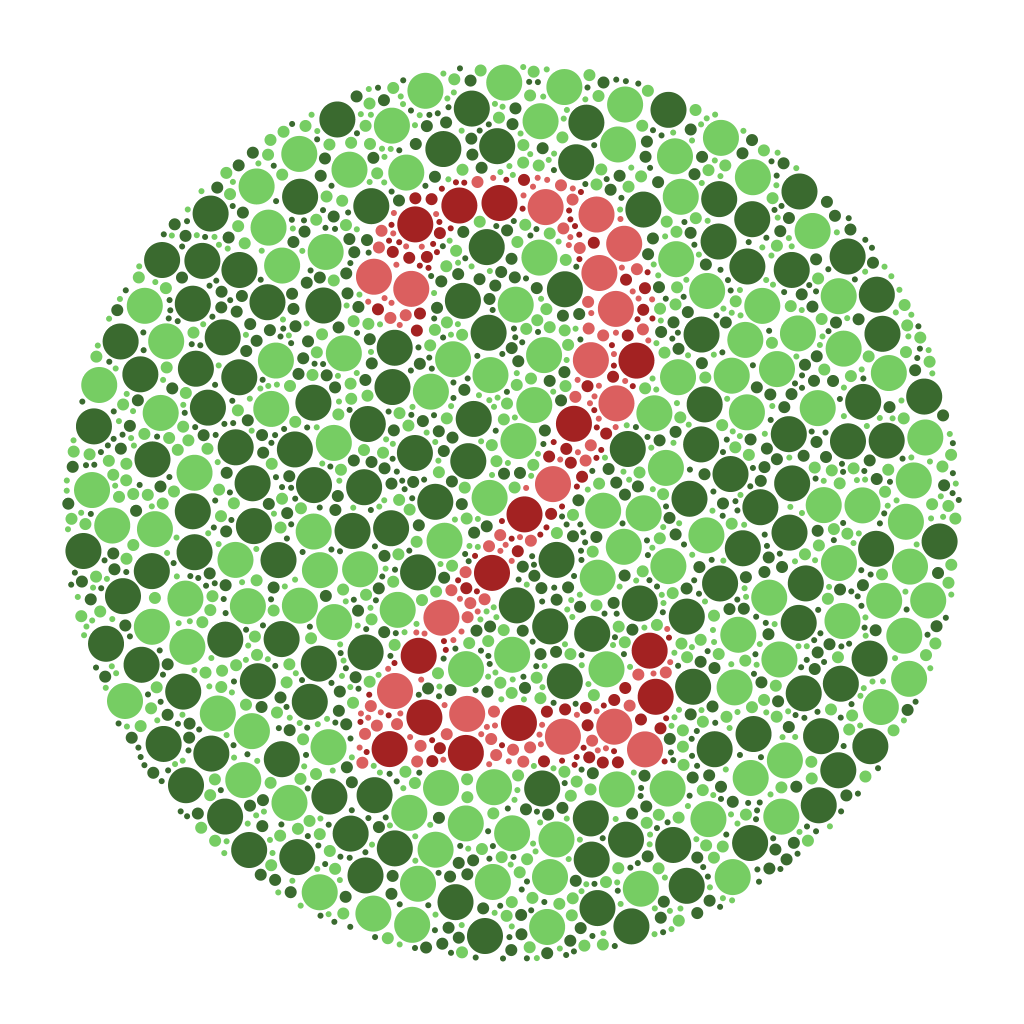
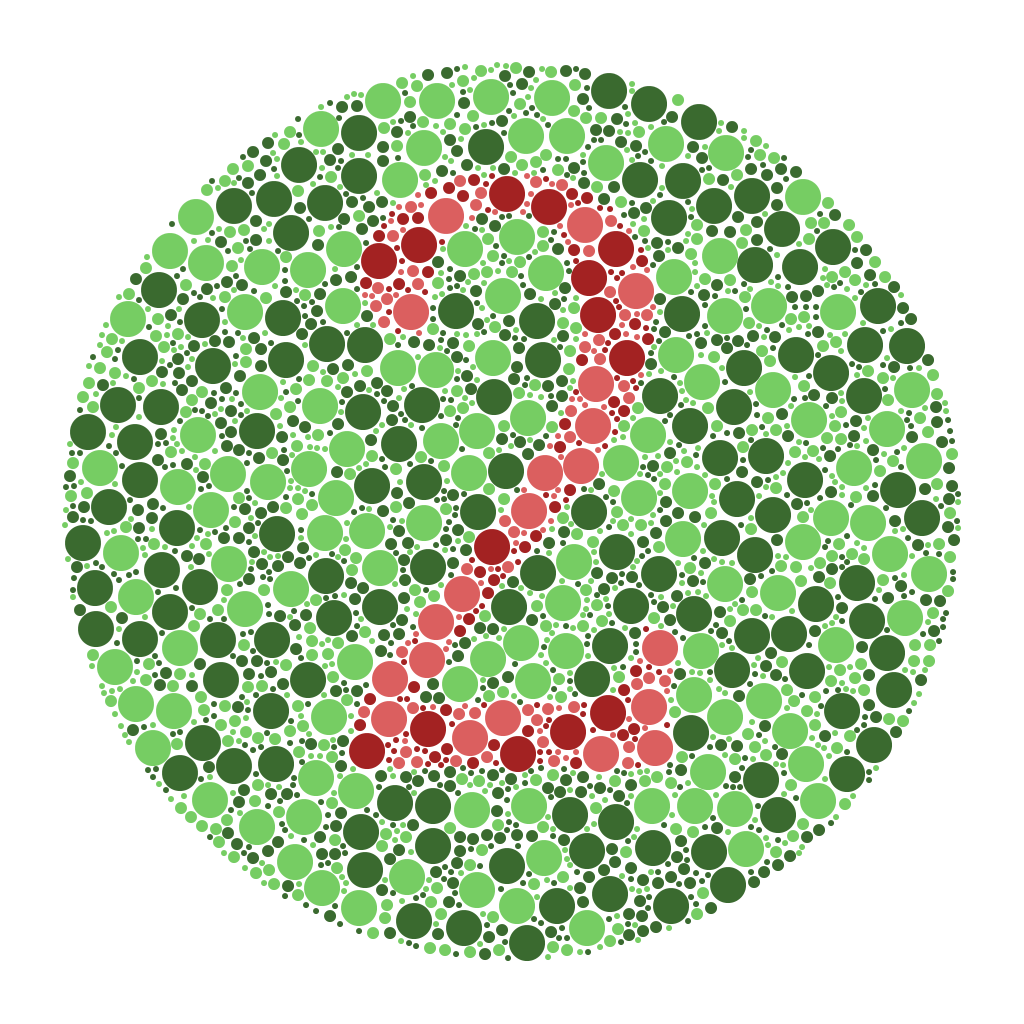
docs: update docs with images (#1)

diff --git a/README.md b/README.md
@@ -1,4 +1,4 @@
-# ImgDeom
+# ImgDemo
 
 This repo is a simple demonstration of some of the image processing one can acomplish with gos standard library.
 It has no dependencies and relies only on Go's standard library.
@@ -44,6 +44,10 @@ $ find img.png
         command failed: magic number does not match
 ```
 
+The hide command has been used to hide data from [secret.dat](https://github.com/bjatkin/imgdemo/blob/main/assets/secret.dat) file.
+Using the find command that data can be extracted.
+![beach image](https://github.com/bjatkin/imgdemo/blob/main/assets/gemini_beach_with_secret.png)
+
 ### Ishihara
 
 [Ishihara test plates](https://en.wikipedia.org/wiki/Ishihara_test) are used to asses color blindness.
@@ -57,3 +61,14 @@ create a red green colorblind test image
 $ ishihara 3a6a2f,76cd63 a32222,db5f5f mask.png red_green.png
 
 ```
+
+For example, using the following mask image:
+![mask image](https://github.com/bjatkin/imgdemo/blob/main/assets/mask2.png)
+
+and the following color palette:
+
+* Primary Colors: <span style="color:#3A6A2F">#3a6a2f</span> <span style="color:#76cd63">#76cd63</span>
+* Secondary Colors: <span style="color:#a32222">#A32222</span> <span style="color:#db5f5f">#DB5F5F</span>
+
+We can create this ishihara image:
+![red green ishihara](https://github.com/bjatkin/imgdemo/blob/main/assets/red_green.png)
